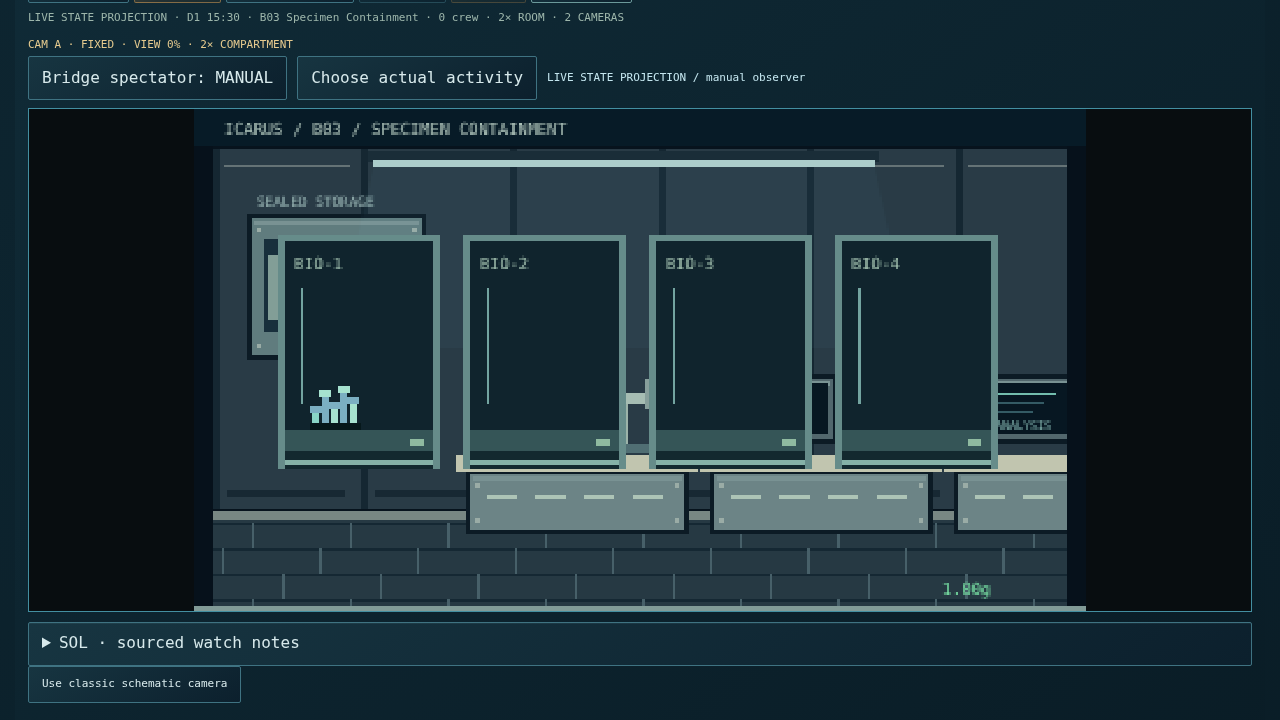
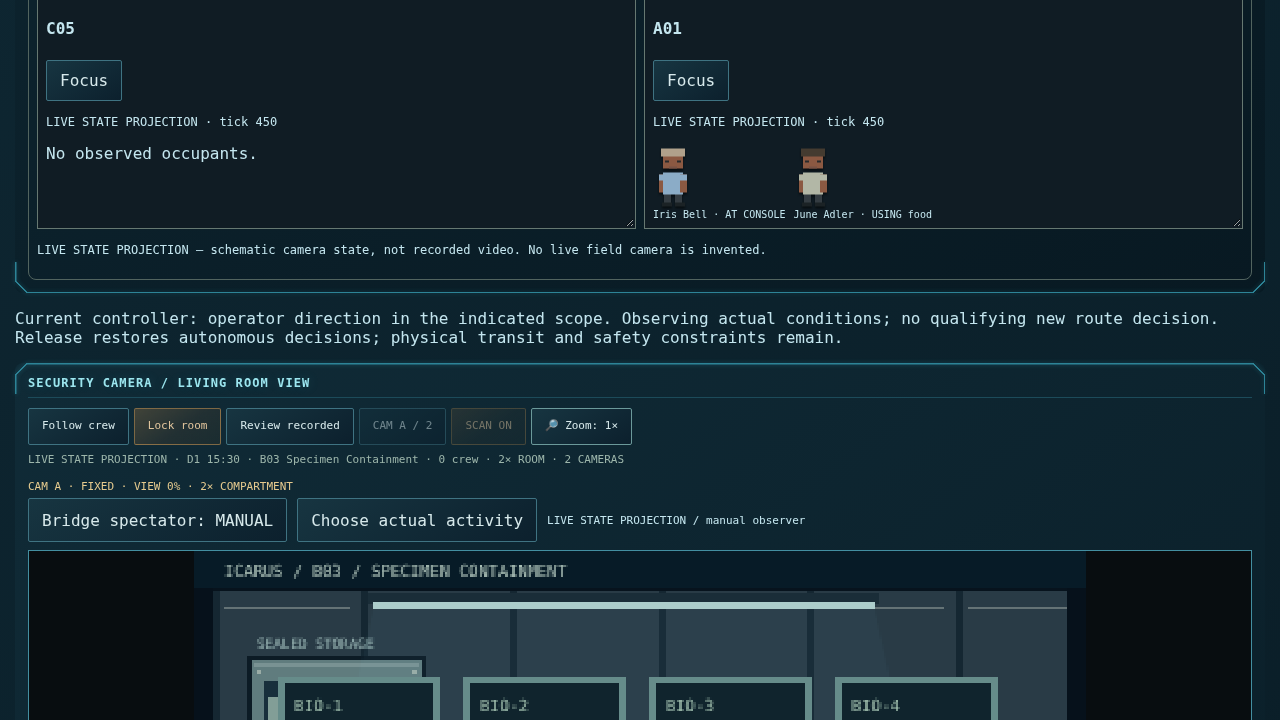
Keep specimen test artifacts portable and retain final-runtime camera evidence

diff --git a/ICARUS/test_specimen_integration.py b/ICARUS/test_specimen_integration.py
@@ -1,9 +1,9 @@
 """Actual engine/cameras. Adverse changes affect isolated test worlds only."""
-import argparse,json,unittest,sys
+import argparse,json,unittest,sys,os,tempfile
 from pathlib import Path
 from test_expedition_integration import ExpeditionIntegration
 from test_continuity import RecordedResult
-OUT=Path('/workspace/work/phase49');OUT.mkdir(exist_ok=True)
+OUT=Path(os.environ.get('ICARUS_SPECIMEN_ARTIFACTS',str(Path(tempfile.gettempdir())/'icarus-specimens')));OUT.mkdir(parents=True,exist_ok=True)
 class SpecimenIntegration(ExpeditionIntegration):
  def live(self,p):
   self.start_field(p)

diff --git a/ICARUS/reports/phase49/screenshots/README.md b/ICARUS/reports/phase49/screenshots/README.md
@@ -1,3 +1,5 @@
 # Actual running browser captures
 
 These PNGs show the actual detailed pixel camera and bridge in an isolated technical voyage on the Phase4.9 runtime. An explicitly dispatched real expedition surveyed/collected the organism and physically returned it to B03 at minute450; no organism, habitat result or enclosure occupant was injected for these images. Acquisition/provenance is retained in the adjacent report. The displayed small light-responsive colony and four fixture slots are renderer outputs from authoritative state, not concept art or physical footage. This is not the user's installed voyage and not a Windows/Samsung hardware screenshot. Empty slots remain empty. Later package tests repeat the acquisition against the final172 runtime hashes.
+
+These retained images were refreshed by the final extracted-runtime acquisition test; its172 hashes match the d2bf219 freeze.
